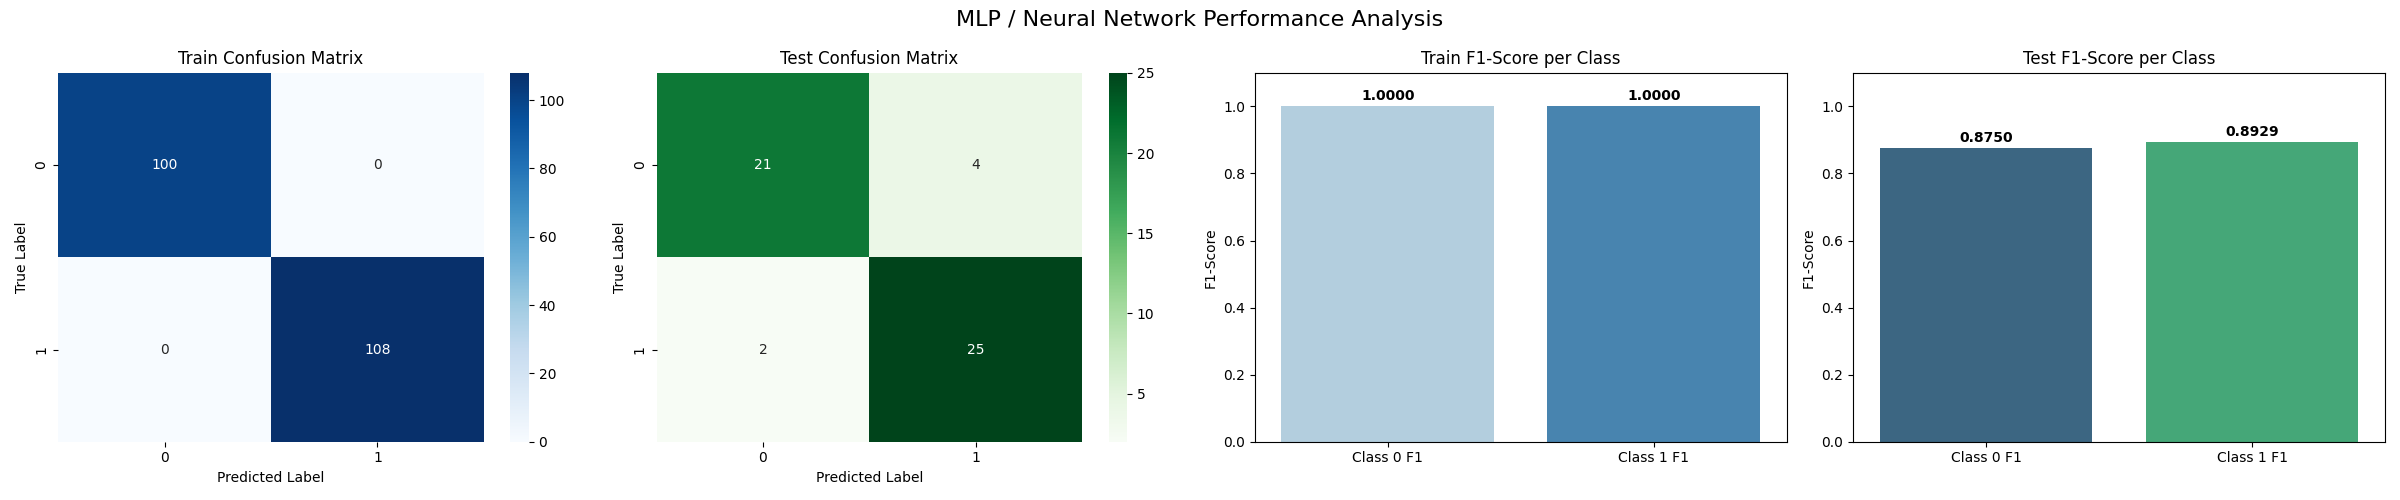
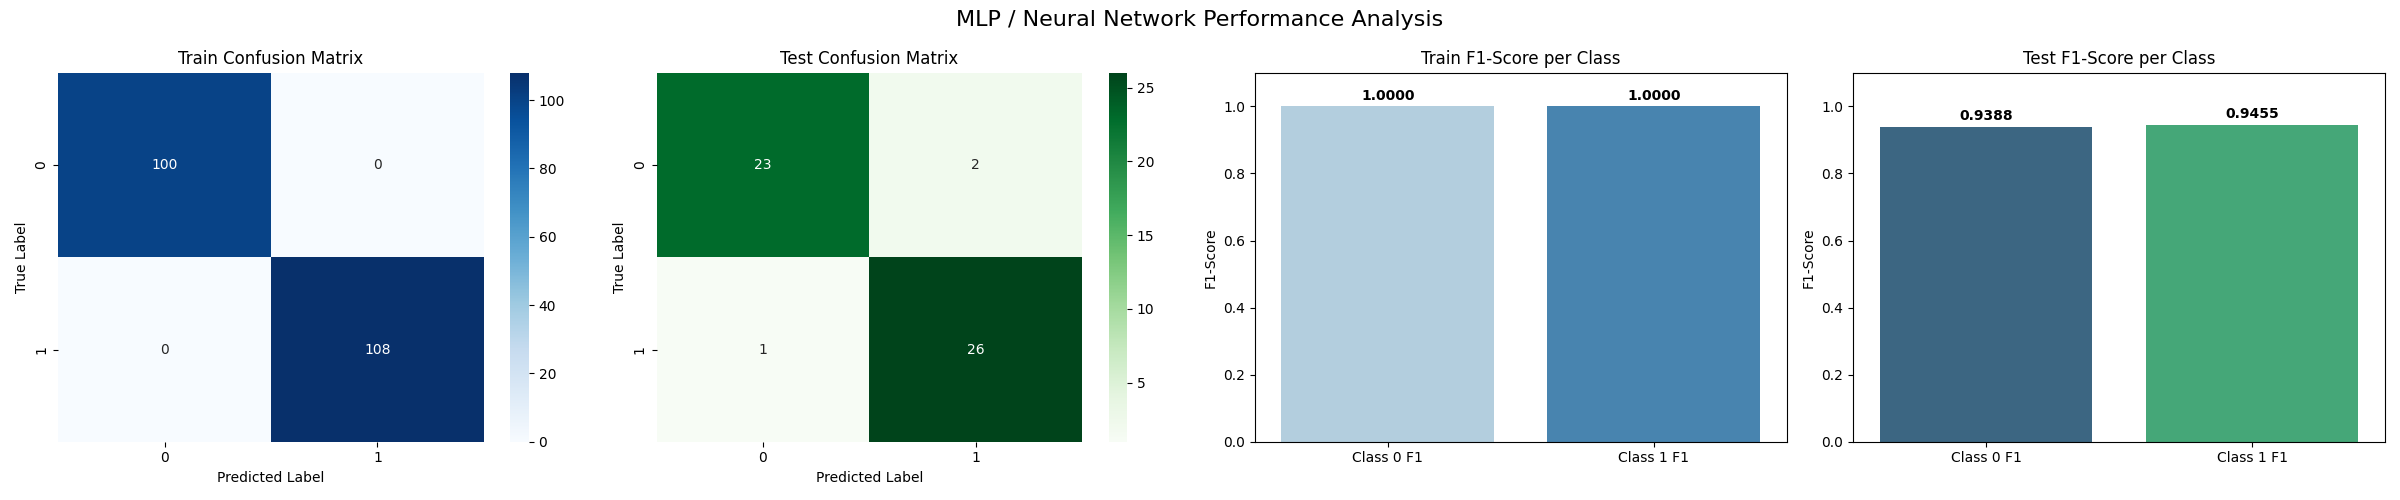
changed smote to randomoversampler

Changed region(s): [[0.7812, 0.21, 1.0, 0.3], [0.4688, 0.3, 0.5, 0.33]]

diff --git a/models/main.py b/models/main.py
@@ -1,12 +1,13 @@
 import pandas as pd
 import numpy as np
 import os
+import re
 import matplotlib.pyplot as plt
 import seaborn as sns
 import optuna
 from sklearn.model_selection import train_test_split, cross_val_score, StratifiedKFold
 from sklearn.feature_extraction.text import TfidfVectorizer
-from imblearn.over_sampling import SMOTE
+from imblearn.over_sampling import SMOTE, RandomOverSampler
 from imblearn.pipeline import Pipeline
 from sklearn.linear_model import LogisticRegression
 from sklearn.ensemble import RandomForestClassifier
@@ -16,9 +17,68 @@ import warnings
 
 
 SEED = 1935990857
+USE_WORDNET_LEMMATIZATION = False
 # Suppress warnings for cleaner output
 warnings.filterwarnings('ignore')
 optuna.logging.set_verbosity(optuna.logging.WARNING)
+
+
+def ensure_wordnet_resources():
+    """Download WordNet resources only when lemmatization is enabled."""
+    import nltk
+
+    nltk.download('wordnet', quiet=True)
+    nltk.download('omw-1.4', quiet=True)
+
+
+def build_tfidf_vectorizer(use_wordnet=False):
+    if not use_wordnet:
+        # return TfidfVectorizer(stop_words='english', max_features=5000)
+        return TfidfVectorizer(
+            lowercase=True,
+            ngram_range=(1, 2), 
+            min_df=2,
+            max_df=0.9,
+            sublinear_tf=True,
+            max_features=5000,
+            stop_words=None  # or custom list that keeps "not", "no", "never"
+        )
+
+    try:
+        from nltk.stem import WordNetLemmatizer
+    except ImportError as exc:
+        raise ImportError(
+            "WordNet lemmatization requires nltk. Install it with: pip install nltk"
+        ) from exc
+
+    ensure_wordnet_resources()
+    lemmatizer = WordNetLemmatizer()
+
+    # Keep tokenization lightweight and deterministic without extra NLTK tokenizers.
+    def wordnet_tokenizer(text):
+        tokens = re.findall(r"\b\w+\b", str(text).lower())
+        return [lemmatizer.lemmatize(token) for token in tokens]
+
+    return TfidfVectorizer(
+        stop_words='english',
+        max_features=5000,
+        tokenizer=wordnet_tokenizer,
+        token_pattern=None
+    )
+
+
+# def build_model_pipeline(clf, use_wordnet=False):
+#     return Pipeline([
+#         ('tfidf', build_tfidf_vectorizer(use_wordnet=use_wordnet)),
+#         ('smote', SMOTE(random_state=SEED)),
+#         ('model', clf)
+#     ])
+def build_model_pipeline(clf, use_wordnet=False):
+    return Pipeline([
+        ('tfidf', build_tfidf_vectorizer(use_wordnet=use_wordnet)),
+        ('oversample', RandomOverSampler(random_state=SEED)),
+        ('model', clf)
+    ])
 
 def load_and_preprocess_data(filepath):
     print(f"Loading data from {filepath}...")
@@ -53,7 +113,7 @@ def load_and_preprocess_data(filepath):
     
     return df
 
-def objective(trial, model_name, X, y):
+def objective(trial, model_name, X, y, use_wordnet=False):
     """
     Optuna objective function for hyperparameter tuning.
     Uses Pipeline(SMOTE, Classifier) to prevent data leakage.
@@ -61,7 +121,7 @@ def objective(trial, model_name, X, y):
     if model_name == 'Logistic Regression':
         C = trial.suggest_float('C', 1e-4, 1e2, log=True)
         # Using lbfgs solver (default) which supports l2
-        clf = LogisticRegression(C=C, max_iter=1000, random_state=SEED)
+        clf = LogisticRegression(C=C, max_iter=1000, random_state=SEED, class_weight='balanced')
         
     elif model_name == 'Random Forest':
         n_estimators = trial.suggest_int('n_estimators', 50, 300)
@@ -71,7 +131,7 @@ def objective(trial, model_name, X, y):
             n_estimators=n_estimators, 
             max_depth=max_depth, 
             min_samples_split=min_samples_split, 
-            random_state=SEED
+            random_state=SEED, class_weight='balanced'
         )
         
     elif model_name == 'MLP / Neural Network':
@@ -86,12 +146,8 @@ def objective(trial, model_name, X, y):
             random_state=SEED
         )
     
-    # Pipeline: SMOTE -> Classifier
-    pipeline = Pipeline([
-        ('tfidf', TfidfVectorizer(stop_words='english', max_features=5000)),
-        ('smote', SMOTE(random_state=SEED)),
-        ('model', clf)
-    ])
+    # Pipeline: TF-IDF -> SMOTE -> Classifier
+    pipeline = build_model_pipeline(clf, use_wordnet=use_wordnet)
     
     # 5-fold CV maximizing F1-score
     cv = StratifiedKFold(n_splits=5, shuffle=True, random_state=SEED)
@@ -230,6 +286,7 @@ def main():
     
     # 4. Hyperparameter Tuning with Optuna
     print("\n=== Hyperparameter Tuning with Optuna ===")
+    print(f"WordNet lemmatization enabled: {USE_WORDNET_LEMMATIZATION}")
     
     model_names = ['Logistic Regression', 'Random Forest', 'MLP / Neural Network']
     best_models = {}
@@ -241,7 +298,13 @@ def main():
         study = optuna.create_study(direction='maximize', sampler=sampler)
         
         study.optimize(
-            lambda trial: objective(trial, model_name, X_train_raw, y_train),
+            lambda trial: objective(
+                trial,
+                model_name,
+                X_train_raw,
+                y_train,
+                use_wordnet=USE_WORDNET_LEMMATIZATION
+            ),
             n_trials=50   # reduce from 100 → less overfitting
         )
         
@@ -253,7 +316,8 @@ def main():
             clf = LogisticRegression(
                 C=study.best_params['C'],
                 max_iter=1000,
-                random_state=SEED
+                random_state=SEED,
+                class_weight='balanced'
             )
             
         elif model_name == 'Random Forest':
@@ -261,7 +325,8 @@ def main():
                 n_estimators=study.best_params['n_estimators'],
                 max_depth=study.best_params['max_depth'],
                 min_samples_split=study.best_params['min_samples_split'],
-                random_state=SEED
+                random_state=SEED,
+                class_weight='balanced'
             )
             
         elif model_name == 'MLP / Neural Network':
@@ -270,15 +335,14 @@ def main():
                 learning_rate_init=study.best_params['learning_rate_init'],
                 alpha=study.best_params['alpha'],
                 max_iter=500,
-                random_state=SEED
+                random_state=SEED,
             )
 
-        # ✅ FINAL pipeline (same as CV!)
-        best_models[model_name] = Pipeline([
-            ('tfidf', TfidfVectorizer(stop_words='english', max_features=5000)),
-            ('smote', SMOTE(random_state=SEED)),
-            ('model', clf)
-        ])
+        # Final pipeline (same as CV)
+        best_models[model_name] = build_model_pipeline(
+            clf,
+            use_wordnet=USE_WORDNET_LEMMATIZATION
+        )
             
     # # 3. Apply SMOTE to training data (Separate step for Final Training)
     # print("\nApplying SMOTE to full training set for final model training...")
